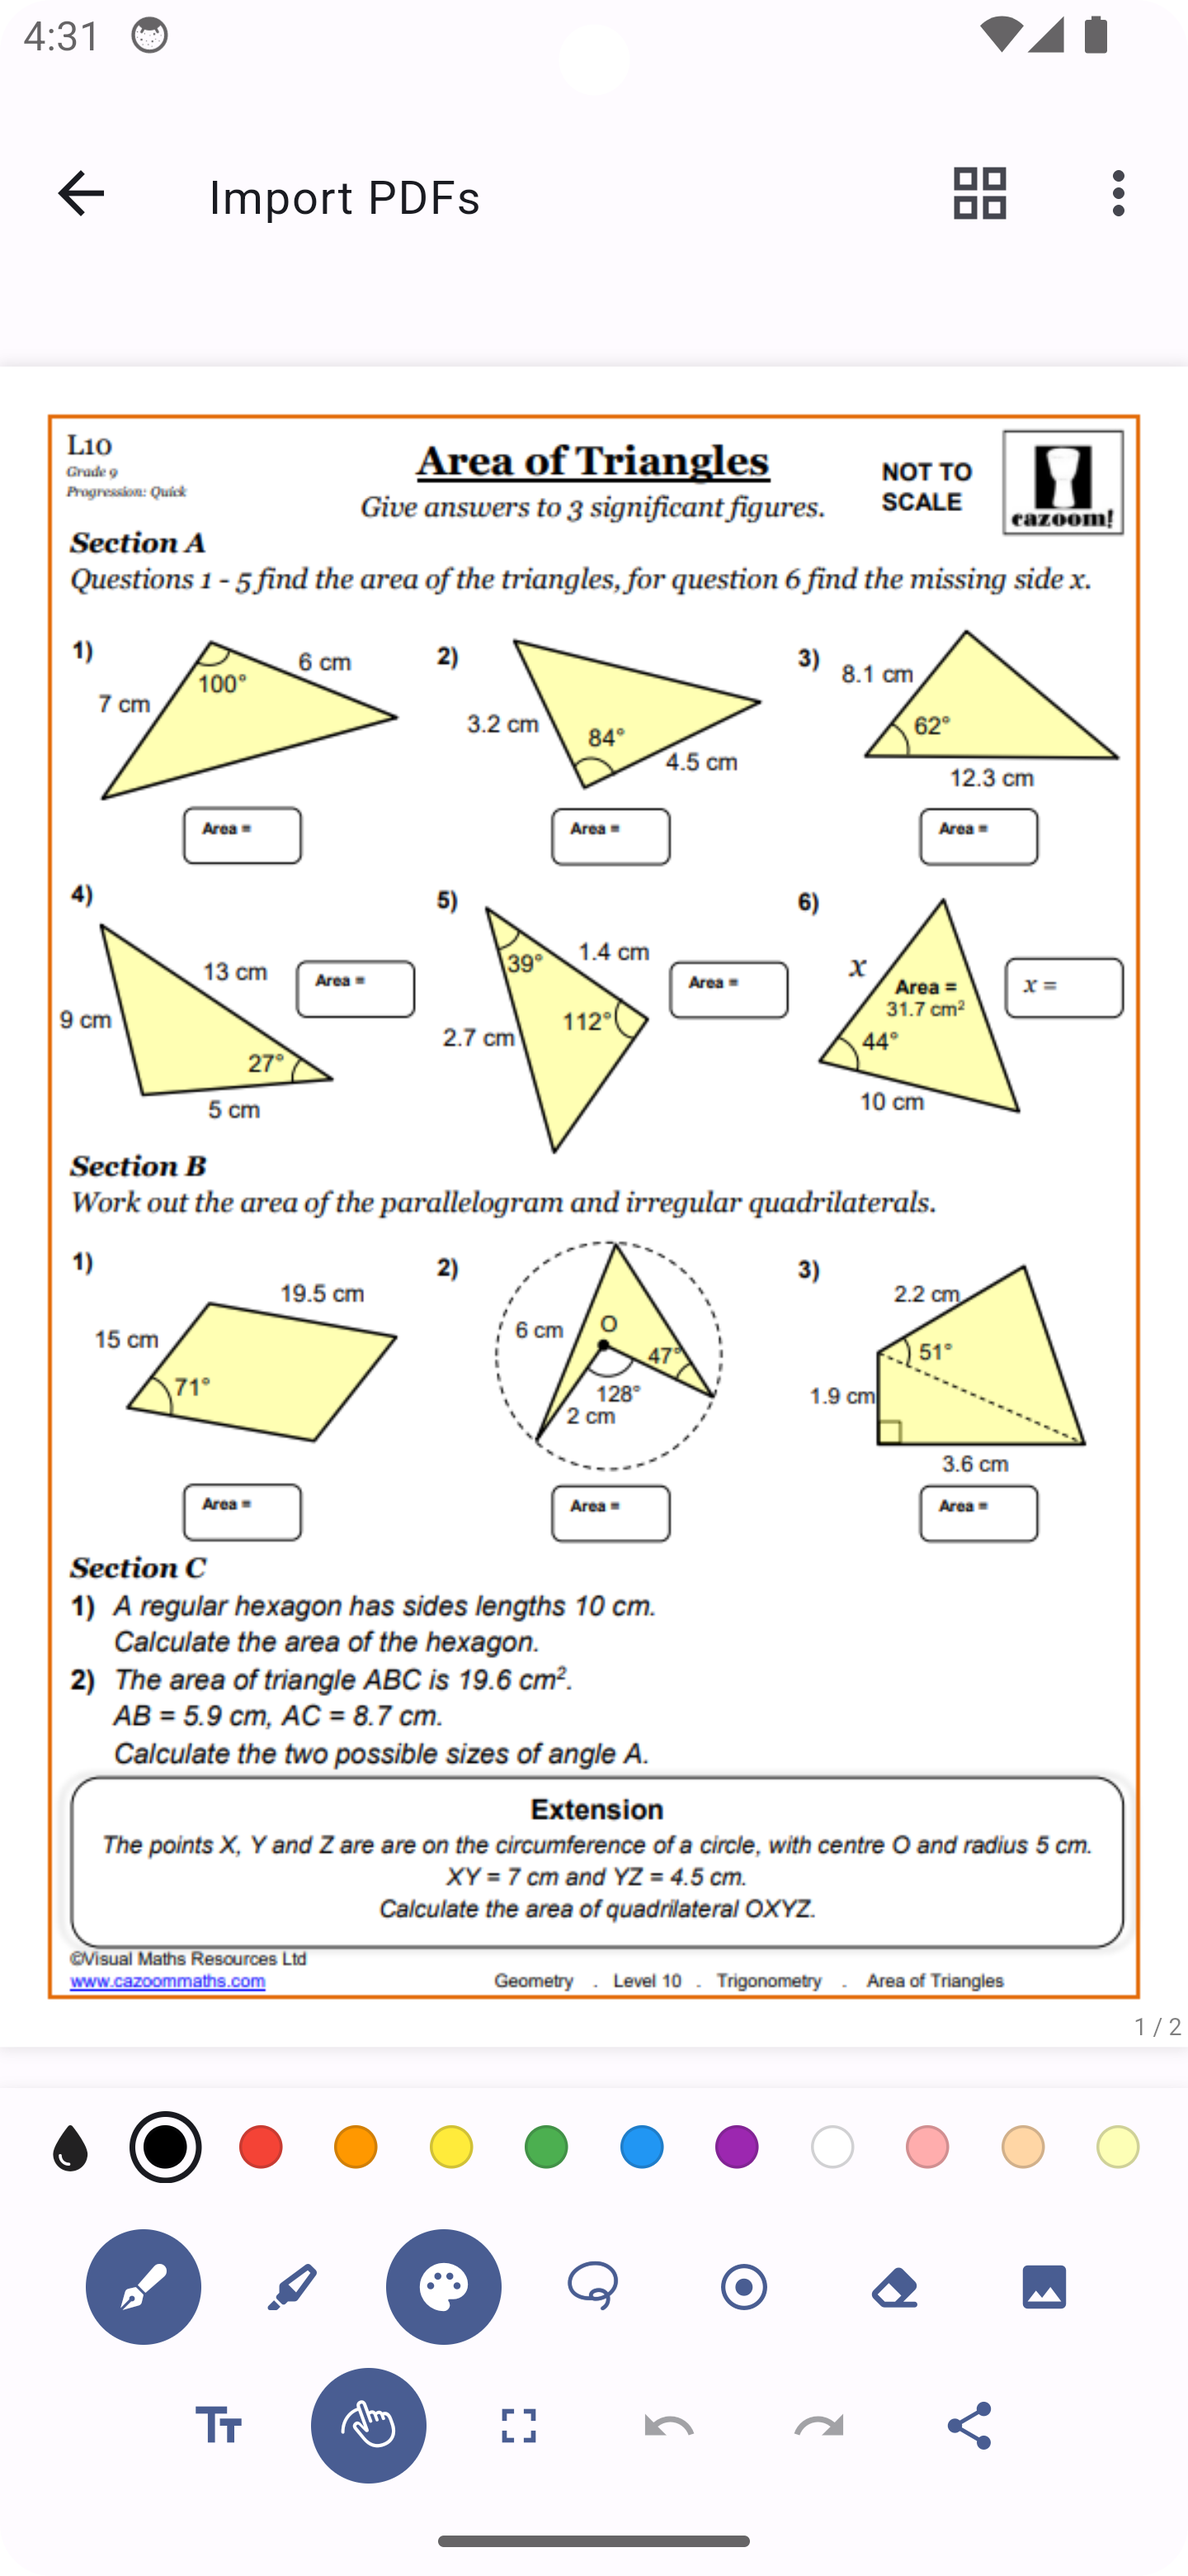
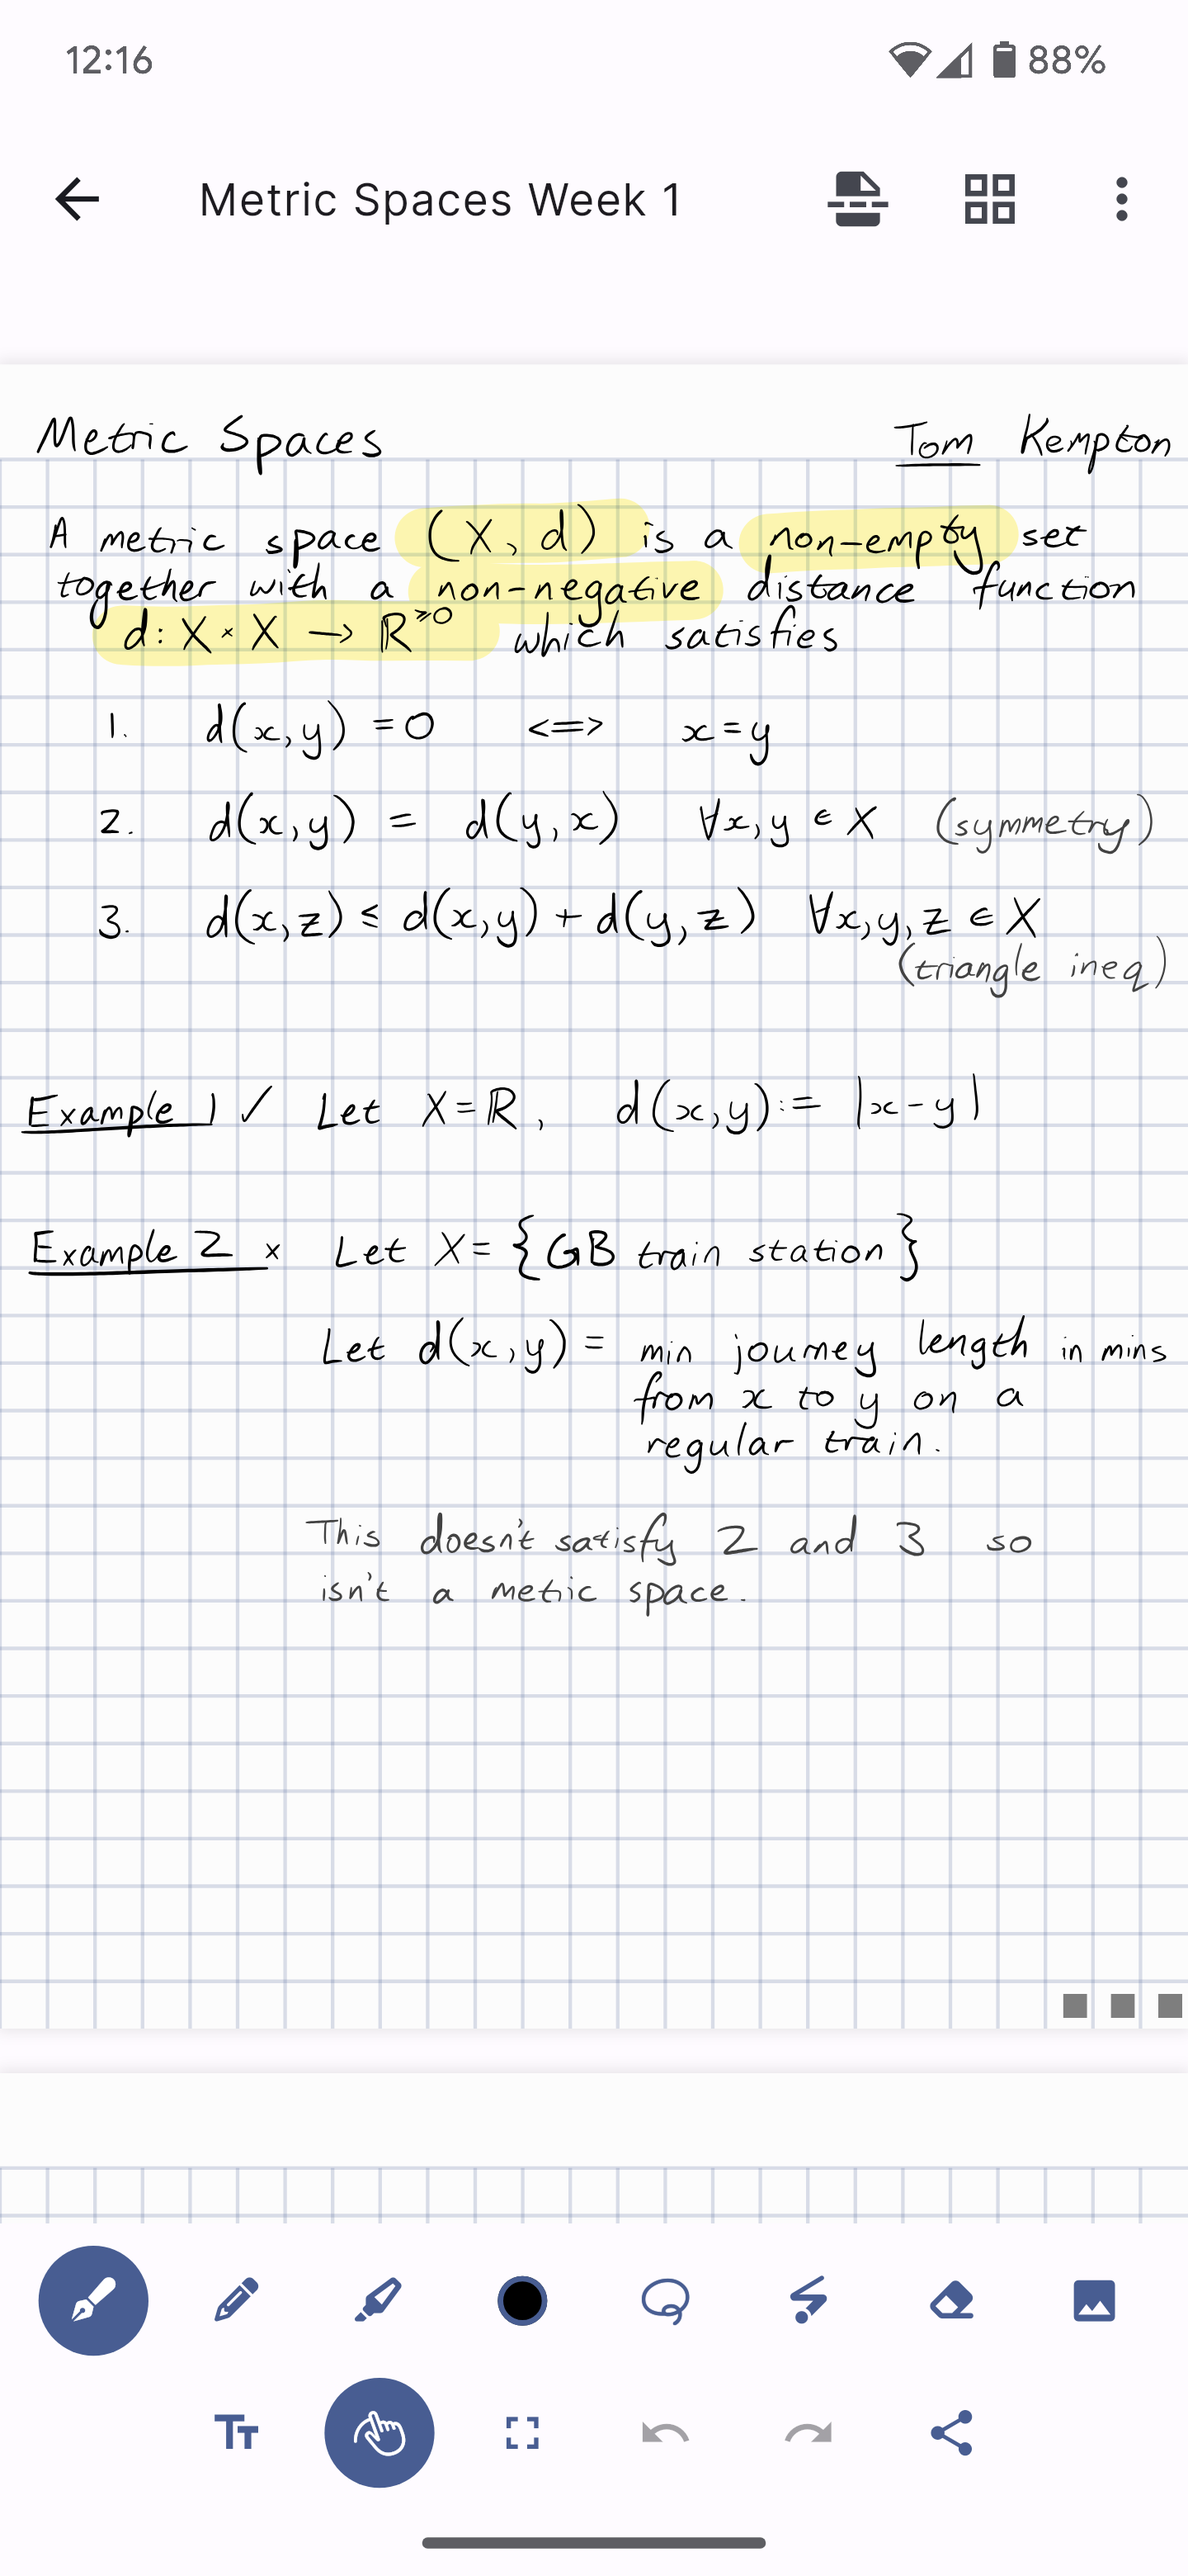
chore: automate editor screenshots

diff --git a/test/screenshot_goldens_test.dart b/test/screenshot_goldens_test.dart
@@ -14,6 +14,8 @@ import 'package:saber/components/theming/yaru_builder.dart';
 import 'package:saber/data/file_manager/file_manager.dart';
 import 'package:saber/data/flavor_config.dart';
 import 'package:saber/data/prefs.dart';
+import 'package:saber/i18n/strings.g.dart';
+import 'package:saber/pages/editor/editor.dart';
 import 'package:saber/pages/home/home.dart';
 import 'package:yaru/yaru.dart';
 
@@ -86,6 +88,14 @@ void main() {
       goldenFileName: 'home',
       child: const HomePage(subpage: HomePage.recentSubpage, path: ''),
     );
+    _screenshot(
+      materialTheme: materialTheme,
+      yaruTheme: yaruTheme,
+      goldenFileName: 'editor',
+      child: Editor(
+        path: '/Metric Spaces Week 1',
+      ),
+    );
   });
 }
 
@@ -108,17 +118,27 @@ void _screenshot({
           },
           device: device,
           frameColors: frameColors,
-          child: child,
+          child: TranslationProvider(
+            child: child,
+          ),
         );
         await tester.pumpWidget(widget);
-        await tester.pumpFrames(widget, const Duration(seconds: 1));
 
+        if (child is Editor) {
+          final editorState = tester.state<EditorState>(find.byType(Editor));
+          while (editorState.coreInfo.isEmpty) {
+            await tester.runAsync(
+                () => Future.delayed(const Duration(milliseconds: 100)));
+          }
+          await tester.pump();
+        }
+
+        await tester.pump();
         await tester.precacheImagesInWidgetTree();
         await tester.precacheShaderImagesInWidgetTree();
         await tester.precacheTopbarImages();
         await tester.loadFonts();
-
-        await tester.pumpFrames(widget, const Duration(seconds: 1));
+        await tester.pumpFrames(widget, const Duration(milliseconds: 100));
 
         await tester.expectScreenshot(matchesGoldenFile(
           '${device.goldenFolder}$goldenFileName.png',

diff --git a/lib/pages/editor/editor.dart b/lib/pages/editor/editor.dart
@@ -2046,6 +2046,7 @@ class EditorState extends State<Editor> {
     })();
 
     DynamicMaterialApp.removeFullscreenListener(_setState);
+    PdfEditorImage.cancelCheckIfHighDpiNeeded();
 
     _delayedSaveTimer?.cancel();
     _watchServerTimer?.cancel();

diff --git a/lib/components/canvas/image/pdf_editor_image.dart b/lib/components/canvas/image/pdf_editor_image.dart
@@ -336,4 +336,9 @@ class PdfEditorImage extends EditorImage {
       ),
     );
   }
+
+  static void cancelCheckIfHighDpiNeeded() {
+    _checkIfHighDpiNeededDebounce?.cancel();
+    _checkIfHighDpiNeededDebounce = null;
+  }
 }
